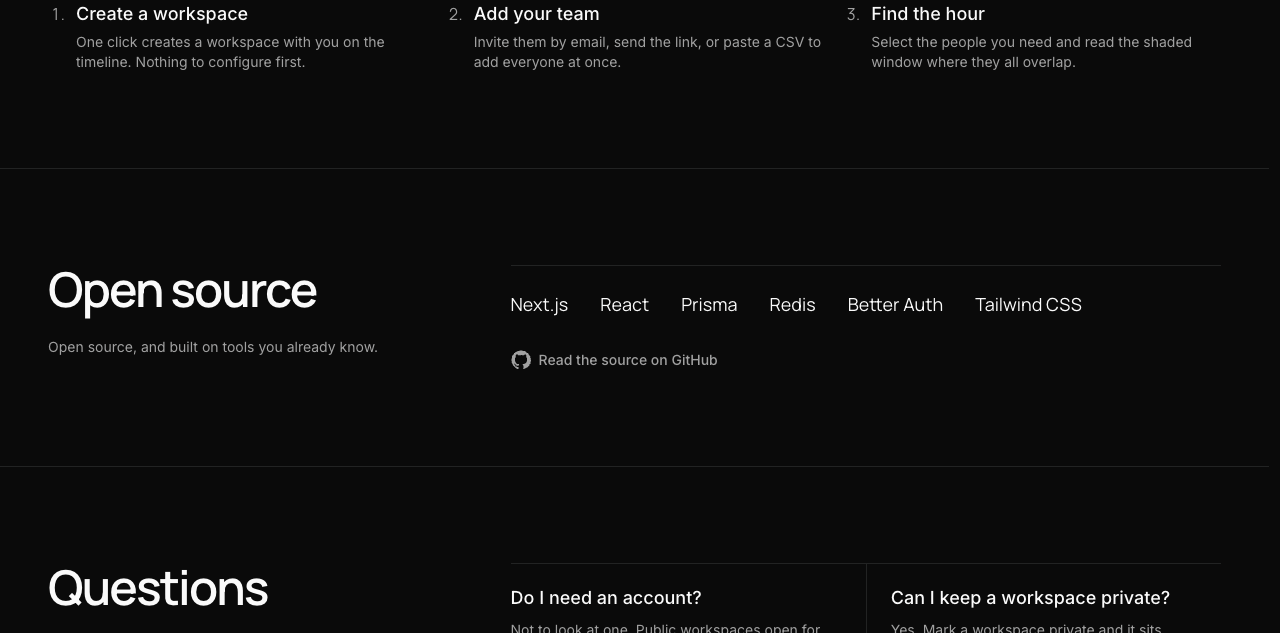
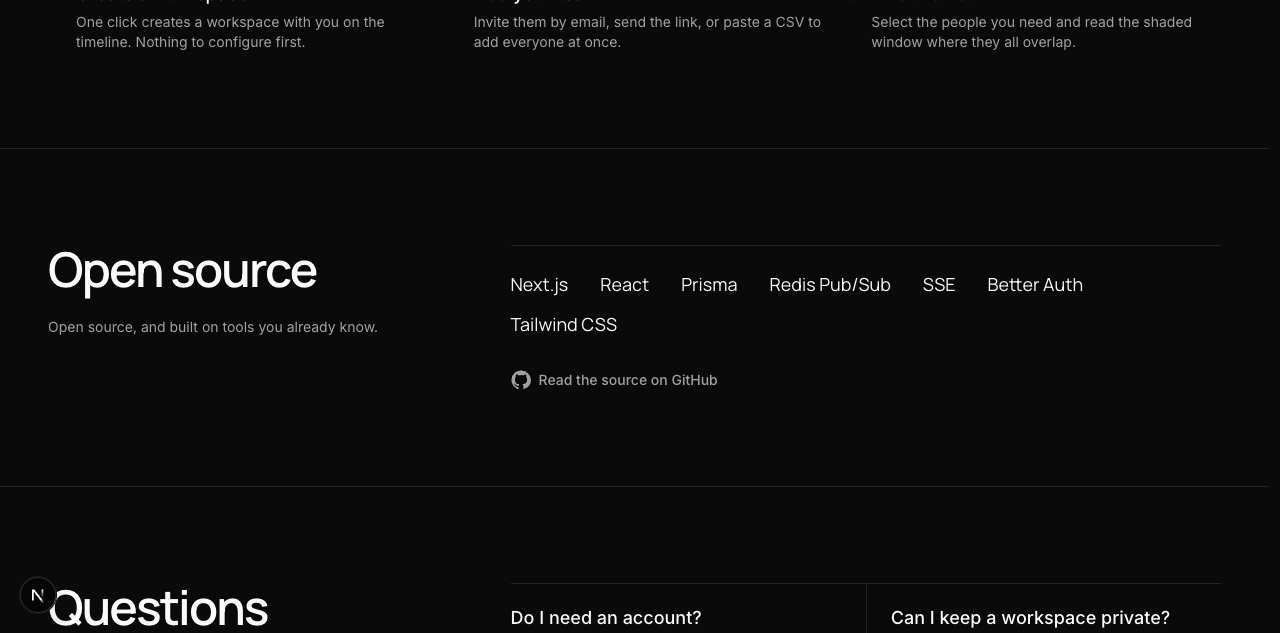
docs(landing): list Redis Pub/Sub and SSE in the stack

diff --git a/apps/web/src/components/landing/open-source.tsx b/apps/web/src/components/landing/open-source.tsx
@@ -3,7 +3,7 @@ import { APP_REPO_URL } from "@/lib/constants";
 
 import { Section } from "./section";
 
-const STACK = ["Next.js", "React", "Prisma", "Redis", "Better Auth", "Tailwind CSS"];
+const STACK = ["Next.js", "React", "Prisma", "Redis Pub/Sub", "SSE", "Better Auth", "Tailwind CSS"];
 
 const OpenSource = () => (
   <Section className="border-t border-border">
